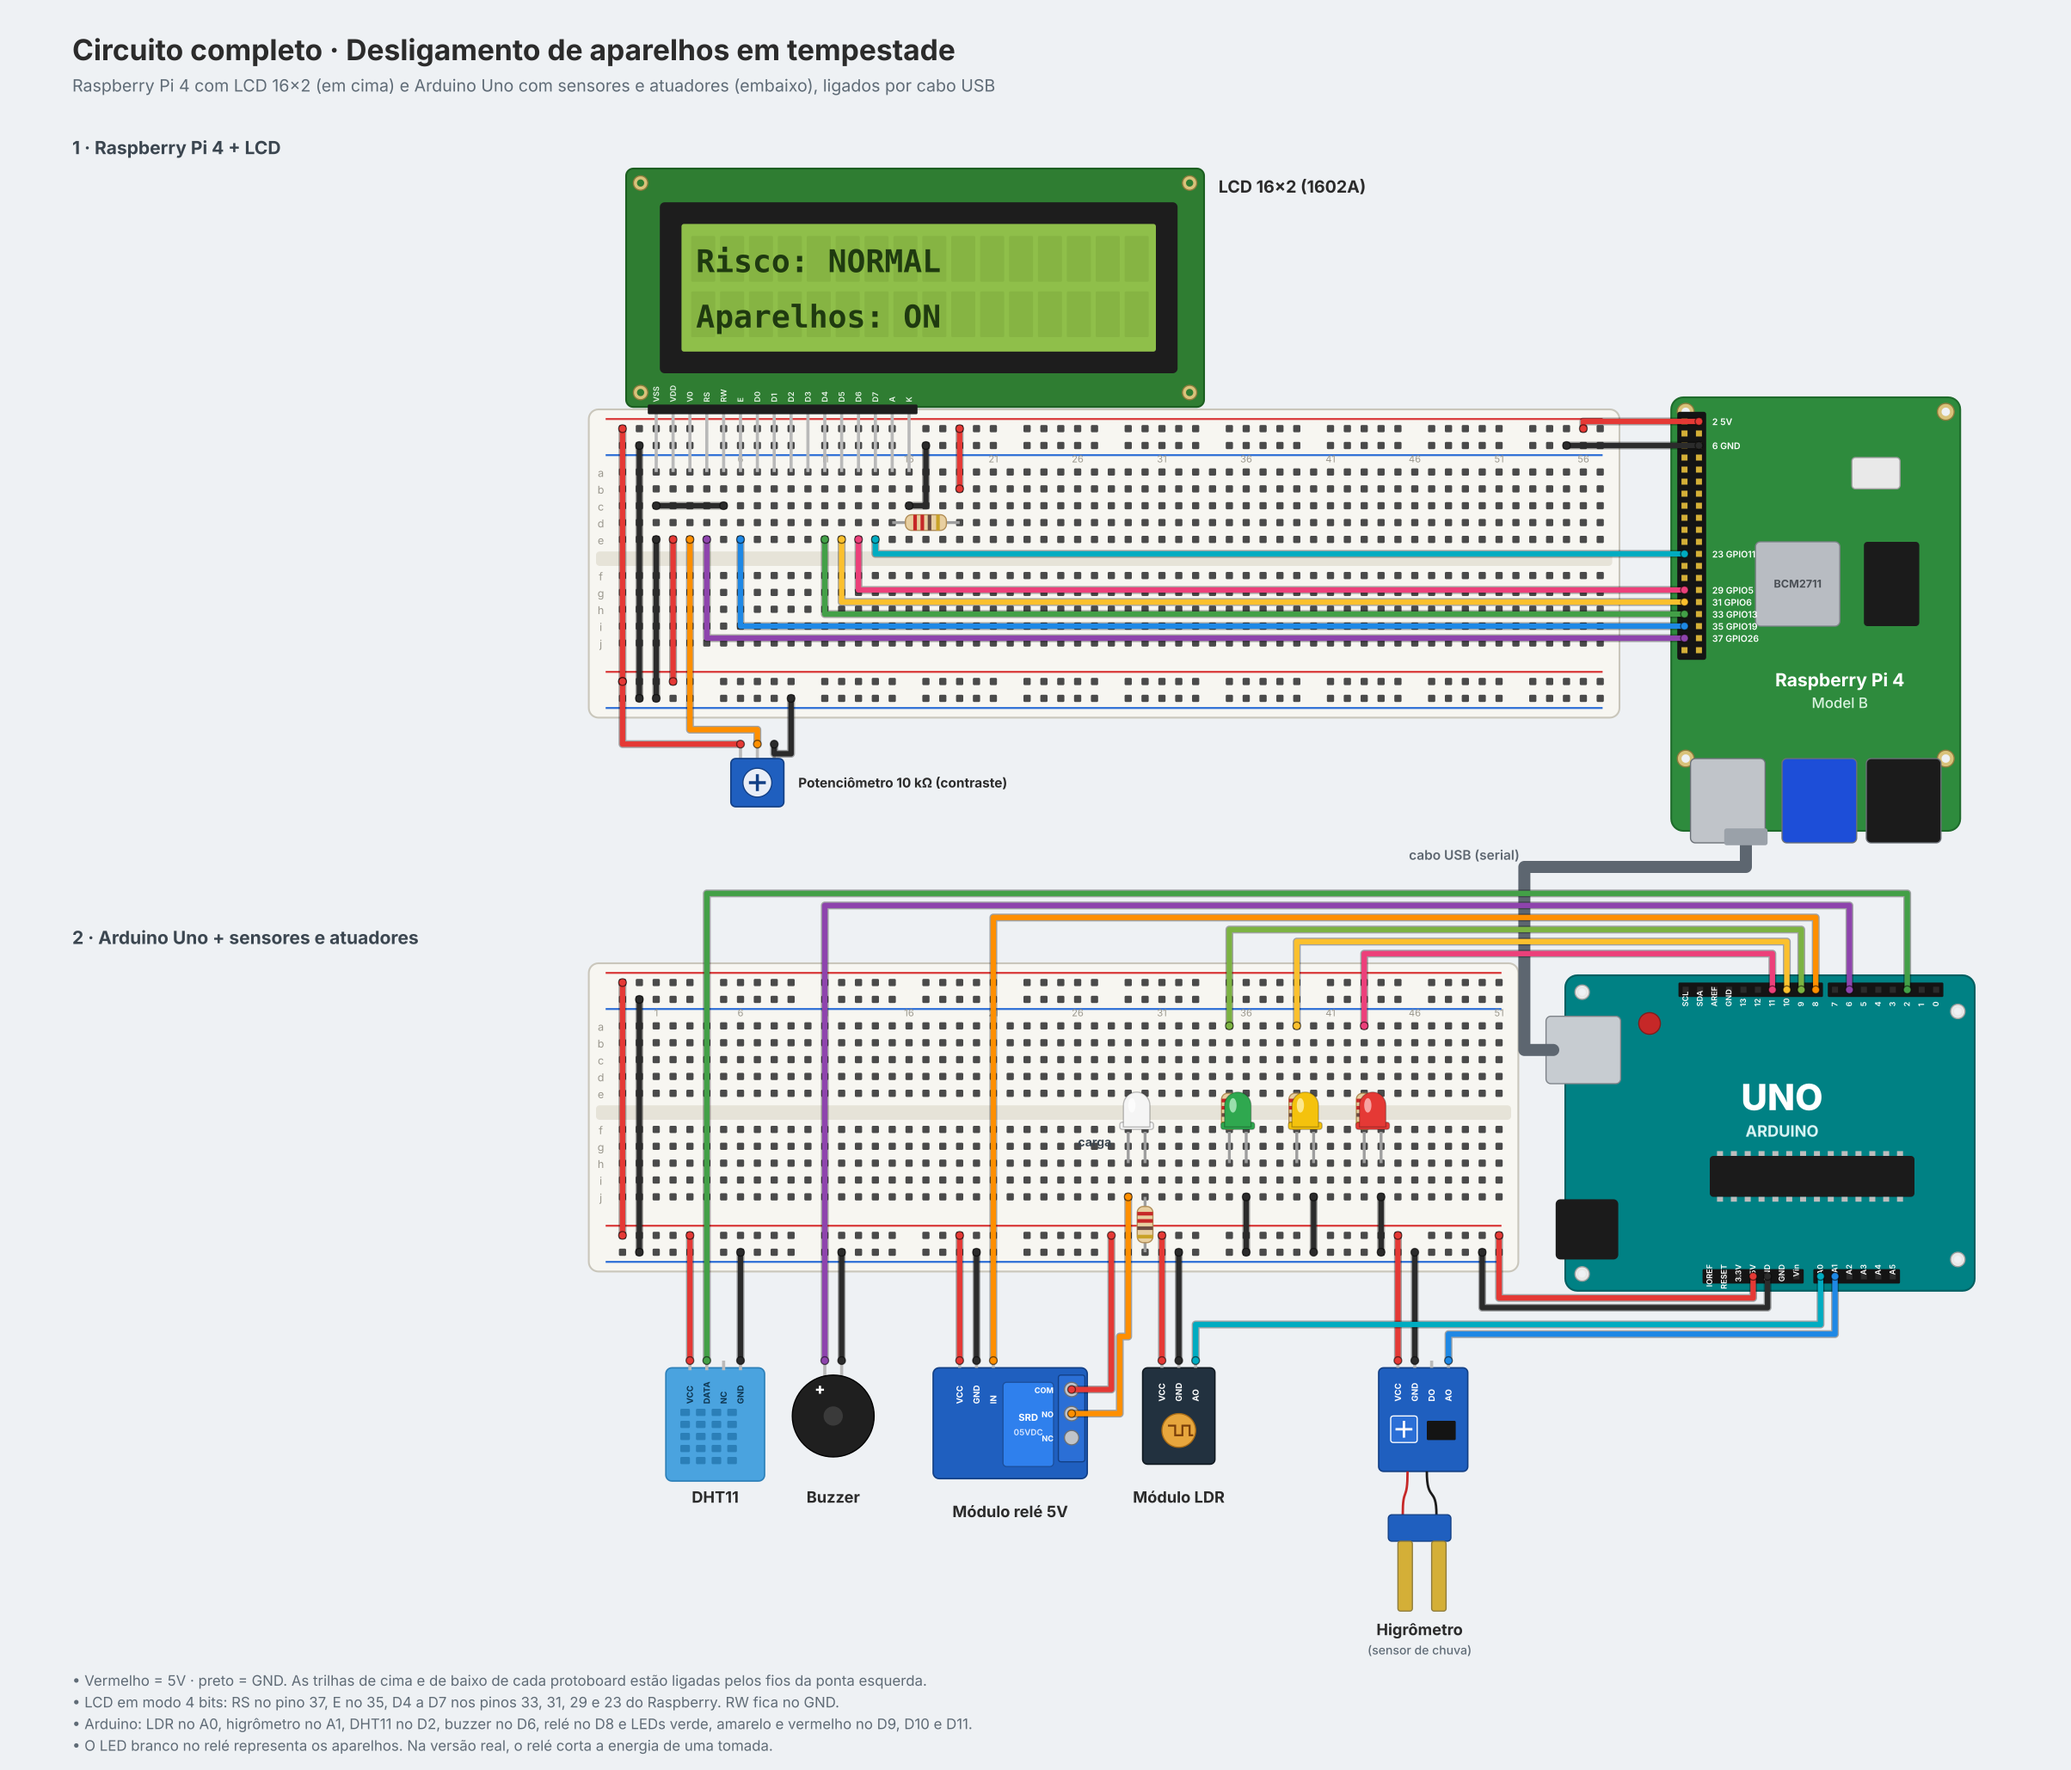
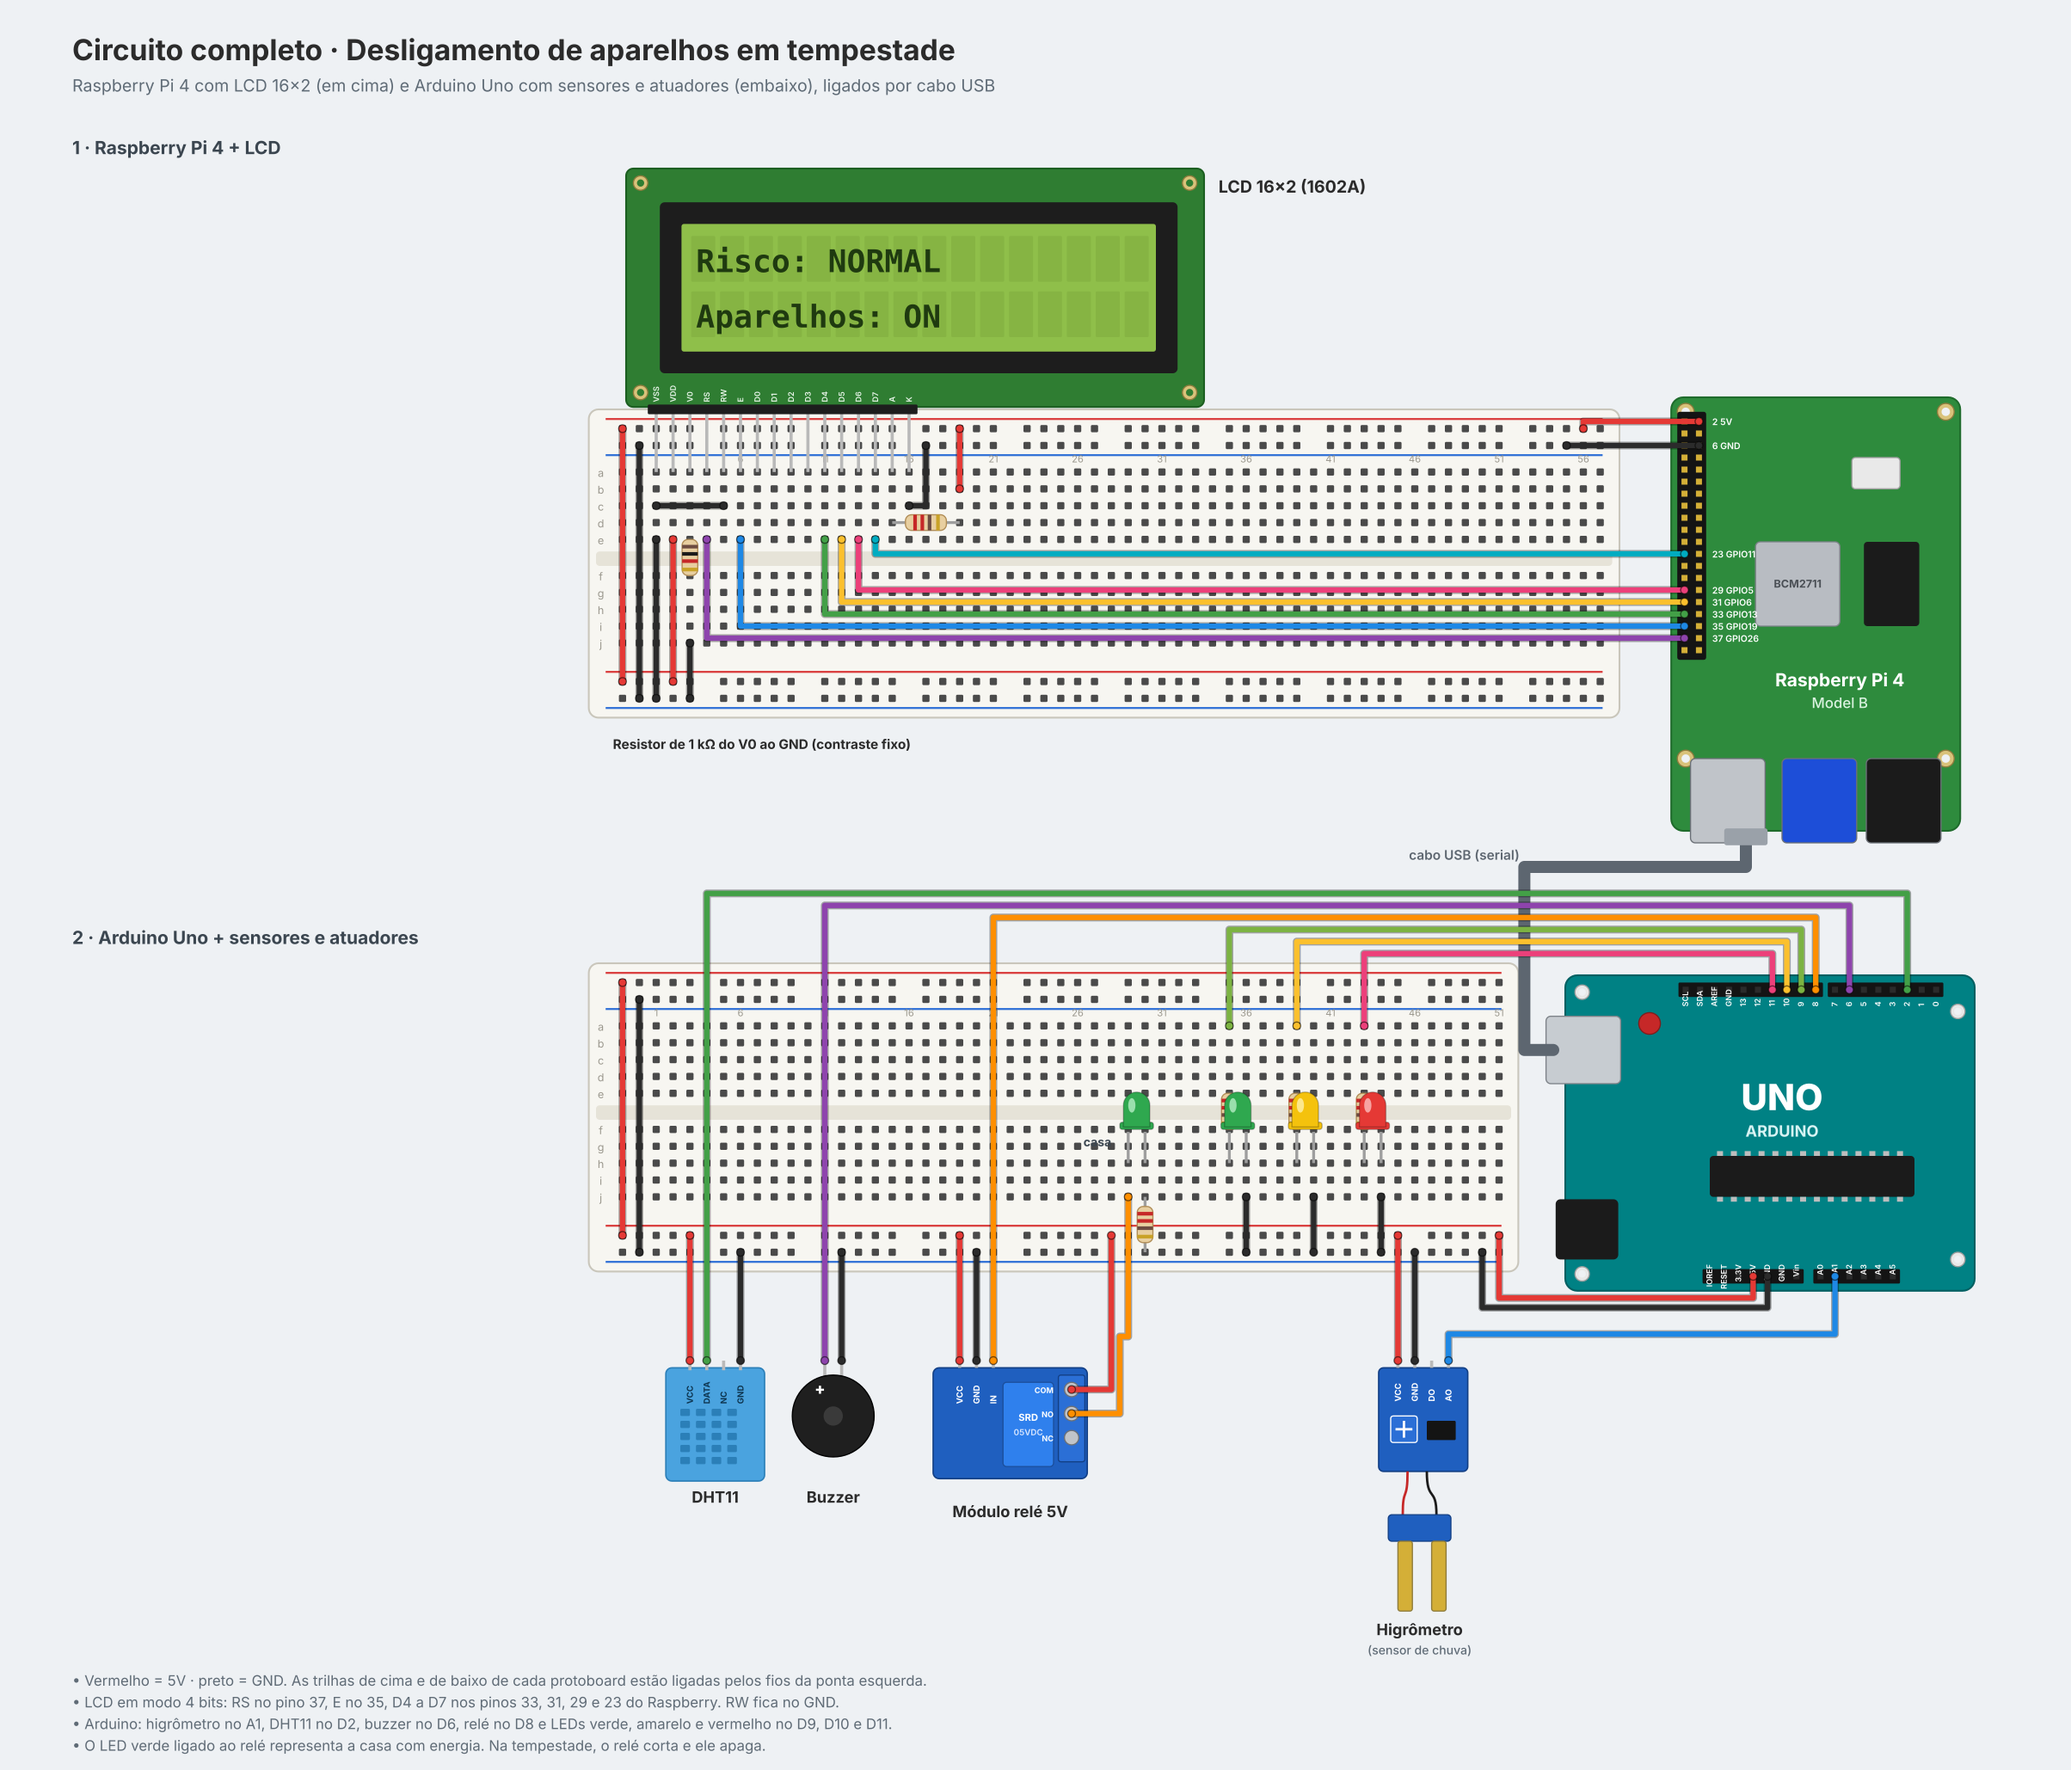
Atualiza diagrama e adiciona pinagem
Diagrama sem LDR e sem potenciômetro, com o LED da casa no relé. Pinagem do Arduino e do Raspberry e divisão de tarefas da equipe.

diff --git a/docs/pinagem.md b/docs/pinagem.md
@@ -1,0 +1,76 @@
+# Pinagem
+
+Montagem com duas protoboards pequenas: uma para o Arduino e outra para o Raspberry Pi com o LCD.
+
+## Arduino Uno
+
+Alimentação da protoboard: **5V → trilha +** e **GND → trilha −**.
+
+| Componente | Pino do componente | Liga em |
+| --- | --- | --- |
+| Relé HW-482 | S | D8 |
+| | + | trilha + |
+| | − | trilha − |
+| Relé (bornes) | COM | trilha + (5V) |
+| | NO | resistor 220 Ω → perna longa do LED verde da casa |
+| | NC | sem ligação |
+| LED verde da casa | perna curta | trilha − |
+| DHT11 (grade virada para você, da esquerda para a direita) | 1 VCC | trilha + |
+| | 2 DATA | D2 |
+| | 3 | sem ligação |
+| | 4 GND | trilha − |
+| | resistor 10 kΩ | entre o pino 1 e o pino 2 |
+| Higrômetro HW-103 | VCC | trilha + |
+| | GND | trilha − |
+| | DO | sem ligação |
+| | AO | A1 |
+| Sonda HW-080 | 2 fios | nos 2 pinos do outro lado do HW-103, em qualquer ordem |
+| Buzzer | + (perna longa) | D6 |
+| | outra perna | trilha − |
+| LED verde (nível normal) | perna longa | resistor 220 Ω → D9 |
+| | perna curta | trilha − |
+| LED amarelo (atenção) | perna longa | resistor 220 Ω → D10 |
+| | perna curta | trilha − |
+| LED vermelho (tempestade) | perna longa | resistor 220 Ω → D11 |
+| | perna curta | trilha − |
+| Cabo USB | | porta USB do Raspberry Pi |
+
+O A0 fica livre.
+
+## Raspberry Pi 4 e LCD 16x2
+
+Numeração física do conector de 40 pinos. O pino 1 fica na ponta do conector mais longe das portas USB. Os ímpares ficam na fileira de dentro e os pares na fileira da borda.
+
+| Pino do Raspberry | Liga em |
+| --- | --- |
+| 2 (5V) | trilha + da protoboard do LCD |
+| 6 (GND) | trilha − da protoboard do LCD |
+| 37 | LCD 4 (RS) |
+| 35 | LCD 6 (E) |
+| 33 | LCD 11 (D4) |
+| 31 | LCD 12 (D5) |
+| 29 | LCD 13 (D6) |
+| 23 | LCD 14 (D7) |
+| USB | cabo do Arduino |
+
+| Pino do LCD | Liga em |
+| --- | --- |
+| 1 VSS | trilha − |
+| 2 VDD | trilha + |
+| 3 V0 | resistor 1 kΩ → trilha − |
+| 4 RS | pino 37 |
+| 5 RW | trilha − |
+| 6 E | pino 35 |
+| 7 a 10 | sem ligação |
+| 11 D4 | pino 33 |
+| 12 D5 | pino 31 |
+| 13 D6 | pino 29 |
+| 14 D7 | pino 23 |
+| 15 A | resistor 220 Ω → trilha + |
+| 16 K | trilha − |
+
+Observações:
+
+- O RW precisa ficar no GND, para o LCD nunca mandar 5V para o GPIO do Raspberry.
+- Se o texto ficar fraco, troque o resistor do V0 por 2,2 kΩ. Se aparecerem quadrados pretos, use 470 Ω.
+- Nunca ligue um pino do Arduino direto em um GPIO do Raspberry. Os dois conversam só pelo cabo USB.

diff --git a/docs/divisao-tarefas.md b/docs/divisao-tarefas.md
@@ -1,0 +1,45 @@
+# Divisão de tarefas
+
+Cada integrante faz o commit da própria parte, pela própria conta do GitHub.
+
+## Luiz Eduardo Treméa (líder)
+
+Núcleo do Raspberry Pi e documentação.
+
+| Arquivo | O que faz |
+| --- | --- |
+| `raspberry/config.py` | Porta serial, pinos do LCD e valores iniciais dos limites |
+| `raspberry/serial_arduino.py` | Conversa com o Arduino pela USB e interpreta as mensagens |
+| `raspberry/risco.py` | Regra de pontos de risco e decisão de ligar ou desligar os aparelhos |
+| `raspberry/lcd.py` | Mensagens no LCD 16x2 |
+| `raspberry/coletor.py` | Programa principal, que junta tudo |
+| `README.md`, `docs/` | Documentação, pinagem e diagrama |
+
+## Bruno Benetti
+
+Hardware e firmware do Arduino.
+
+| Arquivo | O que faz |
+| --- | --- |
+| `arduino/firmware/firmware.ino` | Lê os sensores, envia pela serial, aciona relé, LEDs e buzzer, e entra em modo seguro sem o Raspberry |
+| `wokwi/` | Simulação do circuito do Arduino |
+| Montagem | Circuito na protoboard, conforme `docs/pinagem.md` |
+
+## Patrick Marques
+
+Interface web, dados e testes.
+
+| Arquivo | O que faz |
+| --- | --- |
+| `raspberry/banco.py` | Banco SQLite: leituras, eventos e configuração |
+| `raspberry/web/` | Site em Flask: painel, gráficos, controle e limites |
+| `raspberry/simulador.py` | Arduino falso para testar sem hardware |
+| `raspberry/tests/` | Testes automáticos (pytest) |
+| Roteiro de testes | Cenários de falha para a aula 7 |
+
+## Como as partes se encaixam
+
+- O firmware (Bruno) e o `serial_arduino.py` (Luiz) seguem o mesmo protocolo: `T:24.0;U:78;C:310` de ida e `N:2` / `R:0` de volta.
+- O `coletor.py` (Luiz) grava no banco pelo `banco.py` (Patrick).
+- O site (Patrick) lê o banco e grava as mudanças de modo, relé e limites; o coletor aplica no ciclo seguinte.
+- Com o `simulador.py`, o Patrick consegue desenvolver o site sem o Arduino montado.
